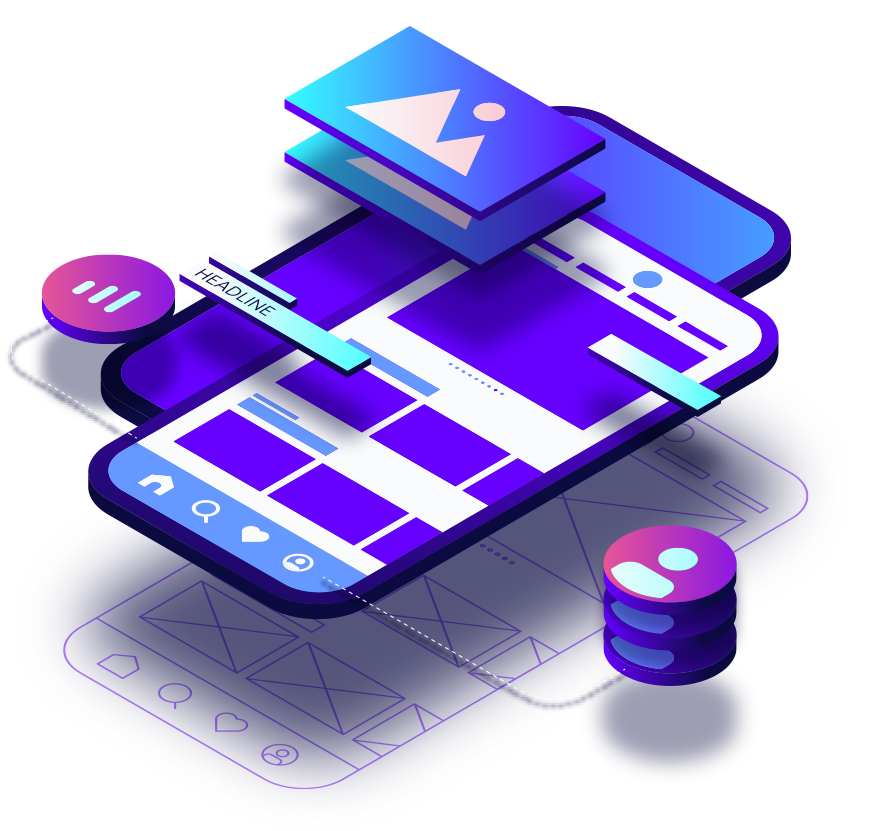
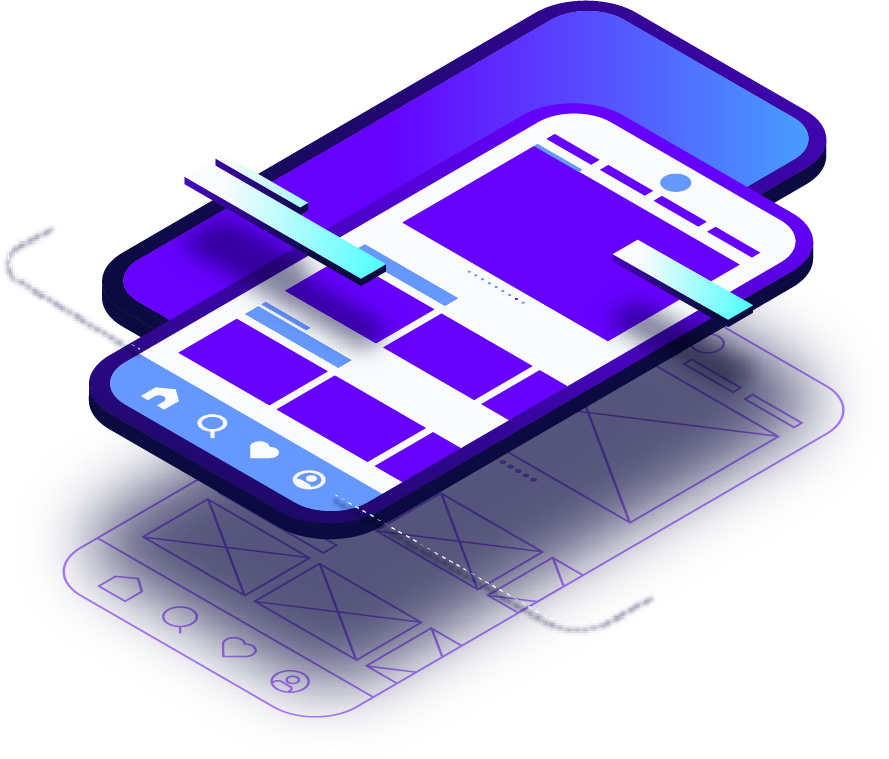
añadiendo animaciones home

diff --git a/src/Components/Navbar/Navbar.jsx b/src/Components/Navbar/Navbar.jsx
@@ -57,7 +57,7 @@ const Navbar = ({ motion }) => {
             <ul>
               <Link spy={true} to="Somos" smooth={true}>
                 <li
-                onMouseEnter={()=>fnCambiar(true,1)}
+                // onMouseEnter={()=>fnCambiar(true,1)}
                 onMouseLeave={()=>setOpen(false)}
                 >
                   ¿Quiénes Somos?
@@ -78,7 +78,7 @@ const Navbar = ({ motion }) => {
               </Link>
               <Link spy={true} to="Hacemos" smooth={true}>
                 <li
-                onMouseEnter={()=>fnCambiar(true,2)}
+                // onMouseEnter={()=>fnCambiar(true,2)}
                 onMouseLeave={()=>setOpen(false)}
                 >¿Qué hacemos?
                 <span
@@ -98,7 +98,7 @@ const Navbar = ({ motion }) => {
               </Link>
               <Link spy={true} to="Vision" smooth={true}>
                 <li
-                onMouseEnter={()=>fnCambiar(true,3)}
+                // onMouseEnter={()=>fnCambiar(true,3)}
                 onMouseLeave={()=>setOpen(false)}
                 >Nuestra visión
                 <span
@@ -133,80 +133,7 @@ const Navbar = ({ motion }) => {
       {/* ---------------------------- */}
       <SlMenu className="btnMenuHam"  onClick={()=> fnMenu(true)}   />
       
-        {/* 
-        <div className="menuBurger" style={{opacity: menuStatus ? 100:0}}>
-        
-        <ul>
-              <Link spy={true} to="Somos" smooth={true}>
-                <li
-                onMouseEnter={()=>fnCambiar(true,1)}
-                onMouseLeave={()=>setOpen(false)}
-                >
-                  ¿Quiénes Somos?
-                  <span
-                    style={{
-                      width: "140px",
-                      height: "3px",
-                      backgroundColor: "#f18c1a",
-                      position: "absolute",
-                      transform: open && openValor ===1? "scaleX(1)" : "scaleX(0)",
-                      top:'60px',
-                      left:'0px',
-                      transformOrigin:'left',
-                      transition:"transform .2s ease"
-                    }}
-                  />
-                </li>
-              </Link>
-              <Link spy={true} to="Hacemos" smooth={true}>
-                <li
-                onMouseEnter={()=>fnCambiar(true,2)}
-                onMouseLeave={()=>setOpen(false)}
-                >¿Qué hacemos?
-                <span
-                    style={{
-                      width: "125px",
-                      height: "3px",
-                      backgroundColor: "#f18c1a",
-                      position: "absolute",
-                      transform: open && openValor ===2 ? "scaleX(1)" : "scaleX(0)",
-                      top:'60px',
-                      left:'160px',
-                      transformOrigin:'left',
-                      transition:"transform .2s ease"
-                    }}
-                  />
-                </li>
-              </Link>
-              <Link spy={true} to="Vision" smooth={true}>
-                <li
-                onMouseEnter={()=>fnCambiar(true,3)}
-                onMouseLeave={()=>setOpen(false)}
-                >Nuestra visión
-                <span
-                    style={{
-                      width: "115px",
-                      height: "3px",
-                      backgroundColor: "#f18c1a",
-                      position: "absolute",
-                      transform: open && openValor ===3 ? "scaleX(1)" : "scaleX(0)",
-                      top:'60px',
-                      left:'310px',
-                      transformOrigin:'left',
-                      transition:"transform .2s ease"
-                    }}
-                  />
-                </li>
-              </Link>
-              <Link spy={true} to="Proyectos" smooth={true}>
-                {" "}
-                <li>Proyectos</li>
-              </Link>
-              <Link spy={true} to="Contactenos" smooth={true}>
-                <li>Contáctenos</li>
-              </Link>
-            </ul>
-      </div> */}
+       
       </header>
 
       <AnimatePresence>

diff --git a/src/Components/Slider/Slider.jsx b/src/Components/Slider/Slider.jsx
@@ -3,6 +3,10 @@ import "./Slider.css";
 import SliderImg from "../../image/slider-img.png";
 import Up from "../../image/up.png";
 import { Link } from "react-scroll";
+import FLOAT1 from "../../image/float1.png"
+import FLOAT2 from "../../image/float2.png"
+import FLOAT3 from "../../image/float3.png"
+import { easeInOut } from "framer-motion";
 
 const Slider = ({ motion }) => {
   return (
@@ -12,7 +16,15 @@ const Slider = ({ motion }) => {
           initial={{ opacity: 0, x: -100 }}
           whileInView={{ opacity: 1, x: 0 }}
         >
-          Hazle un <img src={Up} />
+          Hazle un <motion.img
+          initial={{y:0}}
+          whileInView={{y:[0,-10,0]}}
+          transition={{
+            duration:1,
+            repeat:1,
+            easeInOut
+          }}
+          src={Up} />
           <br />a tus proyectos
         </motion.h1>
         <motion.p
@@ -40,6 +52,30 @@ const Slider = ({ motion }) => {
         </motion.button>
       </div>
       <div className="slider-der">
+        <motion.img
+        initial={{y:0}}
+        whileInView={{y:[-10,10,-10]}}
+        transition={{
+          duration:4,
+          repeat:Infinity
+        }}
+        src={FLOAT1} />
+        <motion.img
+        initial={{y:0}}
+        whileInView={{y:[-10,10,-10]}}
+        transition={{
+          duration:4,
+          repeat:Infinity
+        }}
+        src={FLOAT2} />
+        <motion.img
+        initial={{y:0}}
+        whileInView={{y:[-10,10,-10]}}
+        transition={{
+          duration:4,
+          repeat:Infinity
+        }}
+        src={FLOAT3} />
         <img src={SliderImg} />
       </div>
     </div>

diff --git a/src/Components/Slider/Slider.css b/src/Components/Slider/Slider.css
@@ -4,6 +4,7 @@
     
     display: flex;
     padding: 20px 80px;
+    /* background-image: url("../../image/bg.jpg"); */
 }
 
 .slider-izq{
@@ -49,6 +50,29 @@
     flex:1;
     position: relative;
     
+}
+
+.slider-der > :nth-child(1){
+    z-index: 10;
+    width: 350px;
+    position: absolute;
+    top:-10px;
+    left: 200px;
+}
+
+.slider-der > :nth-child(2){
+    z-index: 10;
+    width: 160px;
+    position: absolute;
+    top:250px;
+    left:400px;
+}
+
+.slider-der > :nth-child(3){
+    z-index: 10;
+    width: 120px;
+    position: absolute;
+    top:50px;
 }
 
 .slider-der img{

diff --git a/src/Components/Navbar/Navbar.css b/src/Components/Navbar/Navbar.css
@@ -79,11 +79,21 @@ nav ul {
     align-items: center;
     font-size: 18px;
     cursor: pointer;
+ 
+}
+
+nav ul li{
+    transition: all .2s ease-in;
 }
 
 nav ul li:hover{
-    color:var(--colorNaranja)
+    color:white;
+    background-color: var(--colorNaranja);
+    padding: 10px;
+    border-radius: 10px;
 }
+
+
 
 @media screen and (min-width:340px) and (max-width: 800px){
 
